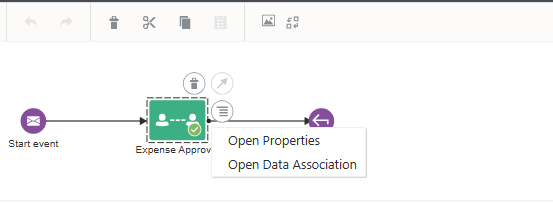
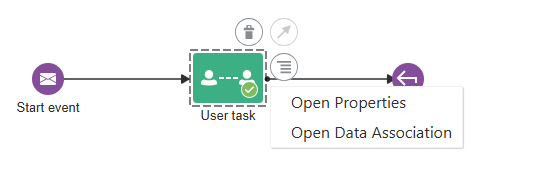
HITL steps
HITL steps

diff --git a/oic-gen3/core-competencies/agentic-ai/expense-automation/import-project-configure/import-project-configure.md b/oic-gen3/core-competencies/agentic-ai/expense-automation/import-project-configure/import-project-configure.md
@@ -26,7 +26,7 @@ In this lab, you will:
 This lab assumes you have:
 
 - All previous labs completed.
-- [Download](https://objectstorage.us-phoenix-1.oraclecloud.com/p/8-YwzLnq0rWHIrdRe0KU1Dn3E0A1dnJFgqoCMuiVnkl2A9pVrgA9qBFep694wlpE/n/oicpm/b/oiclivelabs/o/oic3/ExpenseCreationLab.zip) the Lab artifacts and unzip on your local computer. The lab artifacts contains a .car file (OIC Project) and .jpeg files which will act as data source for this usecase.
+- [Download](https://objectstorage.us-phoenix-1.oraclecloud.com/p/UrkKROO3M8fiP5l9MEfHBkRSo4s8NkprRfGIOqKaDG3-4oiim0y0AWwFmfiO6K97/n/oicpm/b/oiclivelabs/o/oic3/ExpenseCreationLabVer2.zip) the Lab artifacts and unzip on your local computer. The lab artifacts contains a .car file (OIC Project) and .jpeg files which will act as data source for this usecase.
 
 ## Task 1: Import Project
 
@@ -58,8 +58,6 @@ This lab assumes you have:
 
     - Decisions
         - Expense Approval: A decision table used to determine whether approval is required based on the expense type (Food or Airfare) and the expense amount.
-    - Human-In-The-Loop
-        - Expense Workflow: If approval is required, this workflow is triggered and a task is assigned to the user. The user must log in to the Process Workspace to approve or reject the task.
     - Connections
         - REST Connection
         - FTP Connection : This is the place where your files are stored
@@ -116,6 +114,8 @@ Keep the following information handy. Note: Refer File Server Setup section
 
 **OpenAI LLM Adapter Connection Configuration**
 
+> **Note:** For now, you can ignore this connection.You need this information later part of the live lab.
+
 1. Edit the open AI LLM Adapter Connection.
 
 2. Configure the below properties in the connection properties page.
@@ -135,7 +135,7 @@ Verify that all the connections are in Configured state.
 
 1. Using an FTP Client of your choice, connect to FTP Server with the information from [File Server Setup](?lab=setup)
 
-2. Copy the files (food.jpeg, food_comliant.jpeg) into FTP server location. For example, copy these two files to the folder /home/users/fileserveroic3user/oicusername. You can create your own folder under /home/users/fileserveroic3user and copy the files in into new directory which you have created.
+2. Copy the files *food.jpeg, food_comliant.jpeg* (You can get these files from the zip file which you have downloade) into FTP server location. For example, copy these two files to the folder /home/users/fileserveroic3user/oicusername. You can create your own folder under /home/users/fileserveroic3user and copy the files in into new directory which you have created.
 
 ## Task 5: Configure the Decision and Activate
 
@@ -144,31 +144,103 @@ Verify that all the connections are in Configured state.
 
 ## Task 6: Configure the Human in the loop(HITL) and Activate
 
-1. Click on *Human in the loop* tab, edit the form **Expense Form**, review the form and activate the form
-2. Edit the **Expense Workflow**, review **Start event**, review **End event** and click on **Expense Approval** user action OR select **Expense Approval** action , click on **Open Properties**
-![Expense Workflow1](images/expense-workflow1.png)
-3. Click on the user under **Assignees** and remove the existing user and add your oic username.
-![Expense Workflow2](images/expense-workflow2.png)
-4. Select the form under UI section if it is not selected already.
-5. select **Expense Approval** action, click on **Open Data Association**, check *Input* and *Output* assignments.
-![Expense Workflow3](images/expense-workflow3.png)
-![Expense Workflow4](images/expense-workflow4.png)
-6. Go back to *Workflows* which is under *Human in the loop* tab by clicking *back* button
-7. Activate *Expense Workflow*
-8. Please note that If, existing workflow is not working then try to create new workflow and use existing workflow as a reference for json samples.
+1. Click on *Human in the loop* tab, edit the form **Expense Form**, review the form and *activate* the form
+2. Click on **Add** button in Workflow section, enter Name **Expense Workflow** and click on **Create**
+3. Click on **Start event**, click on **Actions** icon, click on **Open Properties**
+    ![Start event](images/startevent.png)
+4. Add the JSON given below by clicking on **inline**, and click on **Apply**
+    ![Workflow Properties](images/workflowproperties.png)
+
+    ```
+        <copy>
+            {
+            "expenseType":"",
+            "subTotal" : "",
+            "merchantPhone" : "+91-7982988244",
+            "merchantAddress" : "CYBERHUB MALL, GURGAON",
+            "transactionTime" : "19:06",
+            "tax" : "",
+            "tip" : "",
+            "total" : "11",
+            "merchantName" : "GOLA SIZZLERS PRIVATE LIMITED",
+            "transactionDate" : "2025-12-25T00:00:00.000Z",
+            "items" : [ {
+                "itemName" : "NY AMRITSARI PARATHA",
+                "itemPrice" : "159",
+                "quantity" : "",
+                "itemTotalPrice" : "477.00"
+            }]
+            }
+        </copy>
+    ```
+
+5. Click on **End event**, click on **Actions** icon, click on **Open Properties**
+6. Add the JSON given below by clicking on **inline**, and click on **Apply**
+
+    ```
+        <copy>
+         {
+          "outcome":""
+         }
+        </copy>
+    ```
+7. Close the *Properties*
+8. Add *User Task*, drag and drop **User Task** from the *Palette* on the the designer between *Start event* and *End Event*
+    ![User task](images/usertask.png)
+9. Click on **User Task** user action OR select **User Task** action , click on **Open Properties**
+    ![Expense Workflow1](images/expense-workflow1.png)
+10. Change *User Task* name and *Title* as * *Expense Approval*.
+11. Click on the user under **Assignees** and add your oic username.
+    ![Expense Workflow2](images/expense-workflow2.png)
+12. For *UI* property, select the from which you have activated from the drop down.
+ and click on the designer to save all the properties automatically.
+    ![UI Properties](images/usertask-properties.png)
+13. select **Expense Approval** action, click on **Open Data Association**, expand *Input* from source, expand *messageStartArgs* and expand *input* from right side, expand *formData* and map the below elements and refer the screenshot given below.
+    - merchantName to merchantName
+    - merchantAddress to merchantAddress
+    - transactionDate to expenseDate
+    - total to amount
+    ![Expense Workflow3](images/expense-workflow3.png)
+14. Click on **Output**, map *output.taskOutcome* to *callBackEndArgs.outcome*
+    ![Expense Workflow4](images/expense-workflow4.png)
+15. Click on **Apply**.
+16. Go back to *Workflows* which is under *Human in the loop* tab by clicking *back* button
+17. Activate *Expense Workflow*
 
 ## Task 7: Configure the integrations and Activate
 
-1. Edit **Read Expense Receipt** integration, go through all the actions of the integration flow and modify the compartment name if required in OCI Document Understanding action and activate it.
-2. Edit **Approval Required** integration, Edit *OCI Generative AI* action and modify the *Region, Compartment, Model and Model ID* as per your OCI environment and Edit *Decision Service* and make sure that it is pointing to the correct decision service if not, make a note of source and target mappings and delete the *Decision Service*, add new decision service which will point to the correct decision service and map the source and target elements. And finally,  activate the integration flow, refer the mappings given below for the source and target mappings of decision service action in the screenshots.
-    - Mappings before decision service action
-    ![Decision mappings](images/decisionmappings.png)
-    - Mappings after decision service action
-    ![Decision mappings](images/decisionmappings1.png)
-3. Edit **HITL-Raise Approval Request** integration, Edit *Human in the loop* action and make sure that it is pointing to the correct process or HITL if not, make a note of source and target mappings and delete the *Human in the loop* action, add new *Human in the loop* action which will point to the correct process and map the source and target elements. And finally,  activate the integration flow, refer the mappings given below in the screenshot.
-    ![HITL mappings](images/hitl-mappings.png)
+_Read Expense Receipt_
 
-4. Edit **Create Expense Oracle HCM** integration, go through the all the actions and please note that we have hard coded username as *CASEY.BROWN* to create the expense report on behalf of actual user to reduce the number of calls for this lab. And finally, activate the integration flow
+1. Edit **Read Expense Receipt** integration, go through all the actions of the integration flow and try to understand it.
+2. Go to *OCI Document Understanding* action, edit it, and modify the compartment name as per your OCI environment and activate **Read Expense Receipt** integration.
+
+_Approval Required_
+
+1. Edit **Approval Required** integration, Edit *OCI Generative AI* action and modify the *Region, Compartment, Model and Model ID* as per your OCI environment.
+2. Add *Decision Service* action after *OCI Generative AI* action and call it as *ExecuteBusinessRule* and select the *Decision Service* which you have activated.
+    ![Decision Service](images/decision-service.png)
+3. Map the source and target elements as per the screenshot given below. And finally, refer the mappings given below for the source and target mappings of decision service action in the screenshots.
+    - **Map ExecuteBusinessRule**
+    ![Decision mappings](images/decisionmappings.png)
+    ![Decision mappings2](images/decisionmappings2.png)
+    - **Map GetExpenseType**
+    ![Decision mappings1](images/decisionmappings1.png)
+4. Activate the integration flow
+
+_HITL-Raise Approval Request_
+
+1. Edit **HITL-Raise Approval Request** integration, add *Human in the loop* action under *Main* section by clicking on **+** icon.
+    ![HITL action](images/hitlaction.png)
+2. Enter *endpoint* name as **InitiateProcess** and select the *workflow* which you have created and activated.
+    ![HITL action wizard](images/hitlactionwizard.png)
+3. Edit *Map InitiateProcess* the source and target elements. Refer the mappings given below in the screenshot.
+    ![HITL mappings](images/hitl-mappings.png)
+4. Activate the integration flow
+
+_Create Expense Oracle HCM_
+
+1. Edit **Create Expense Oracle HCM** integration, go through the all the actions and please note that we have hard coded username as *CASEY.BROWN* to create the expense report on behalf of actual user to reduce the number of calls for this lab.
+2. Activate the integration flow
 
 You may now **proceed to the next lab**.
 
